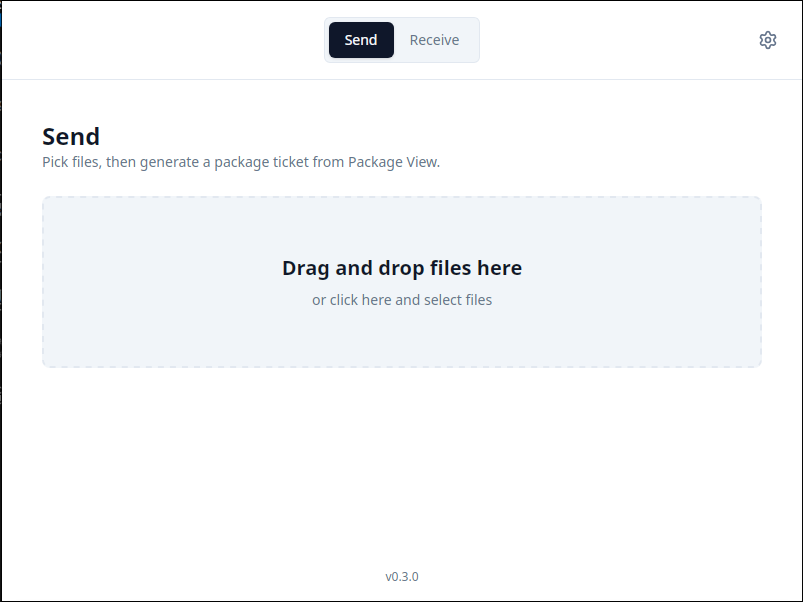
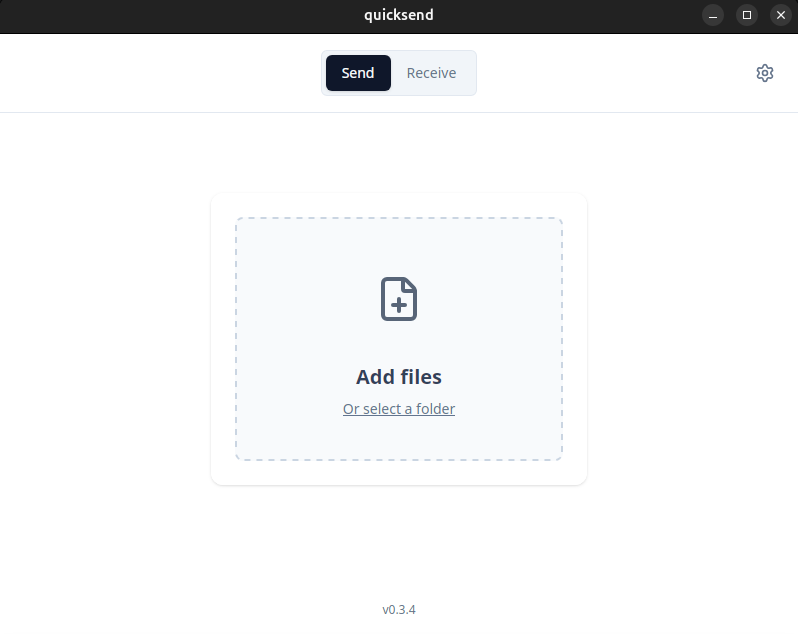
docs: update README images to better reflect major UI changes

diff --git a/README.md b/README.md
@@ -7,8 +7,10 @@ Powered by [iroh](https://github.com/n0-computer/iroh), [Tauri](https://tauri.ap
 
 ![Send page](docs/images/1.png)
 ![Sending one big file](docs/images/2.png)
+
+In another computer far away in the other side of the galaxy:
+
 ![Receiving a file](docs/images/3.png)
-![Settings page](docs/images/4.png)
 
 
 ## 🔄 Basic Flow
